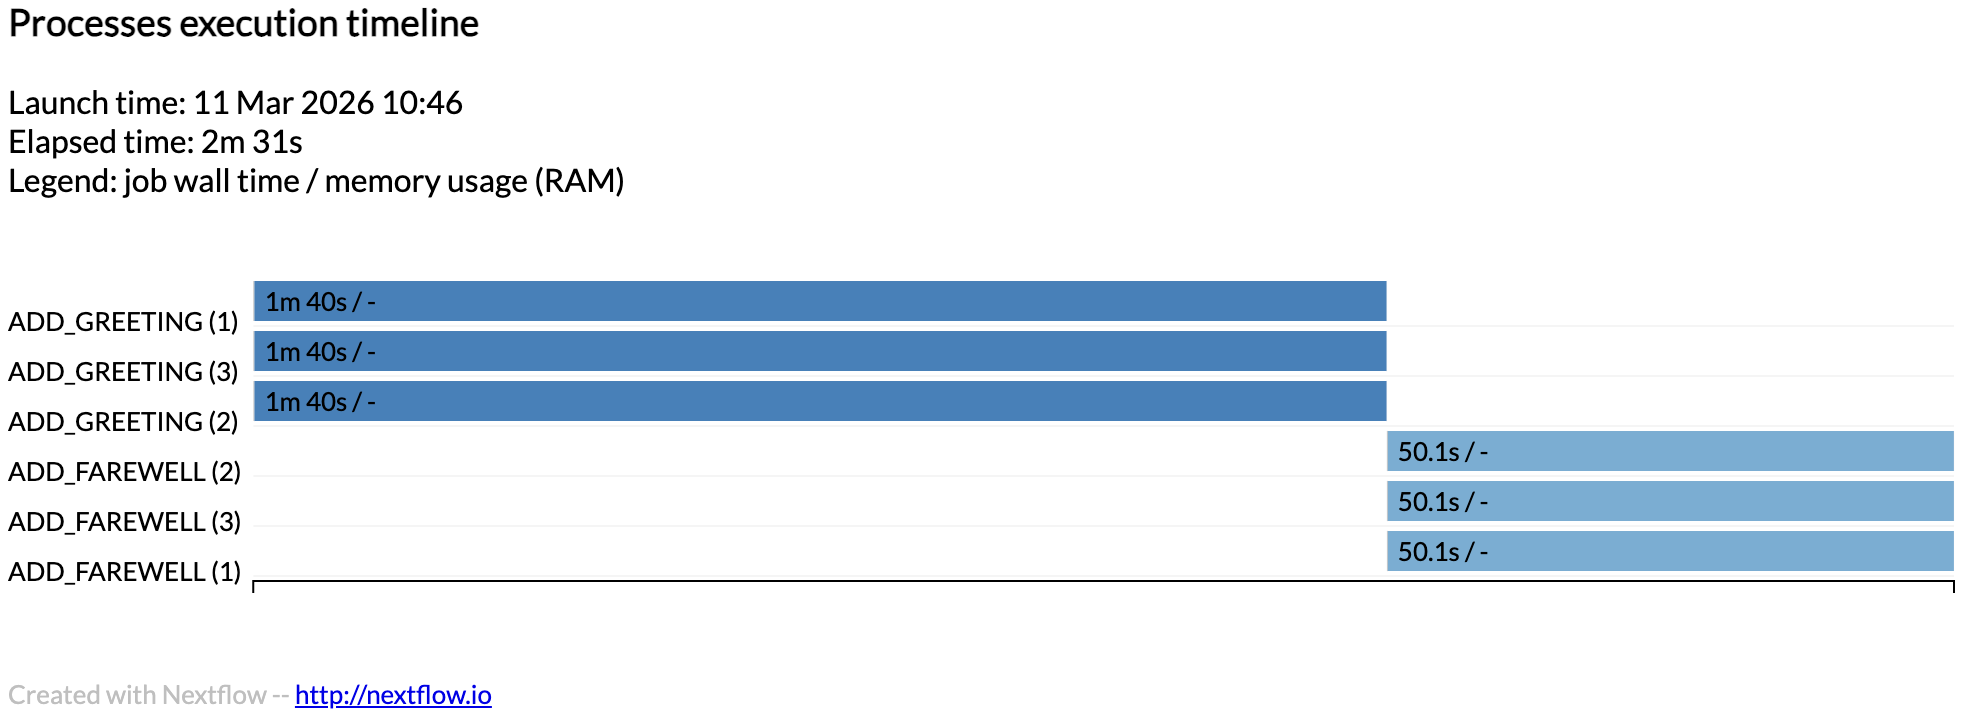
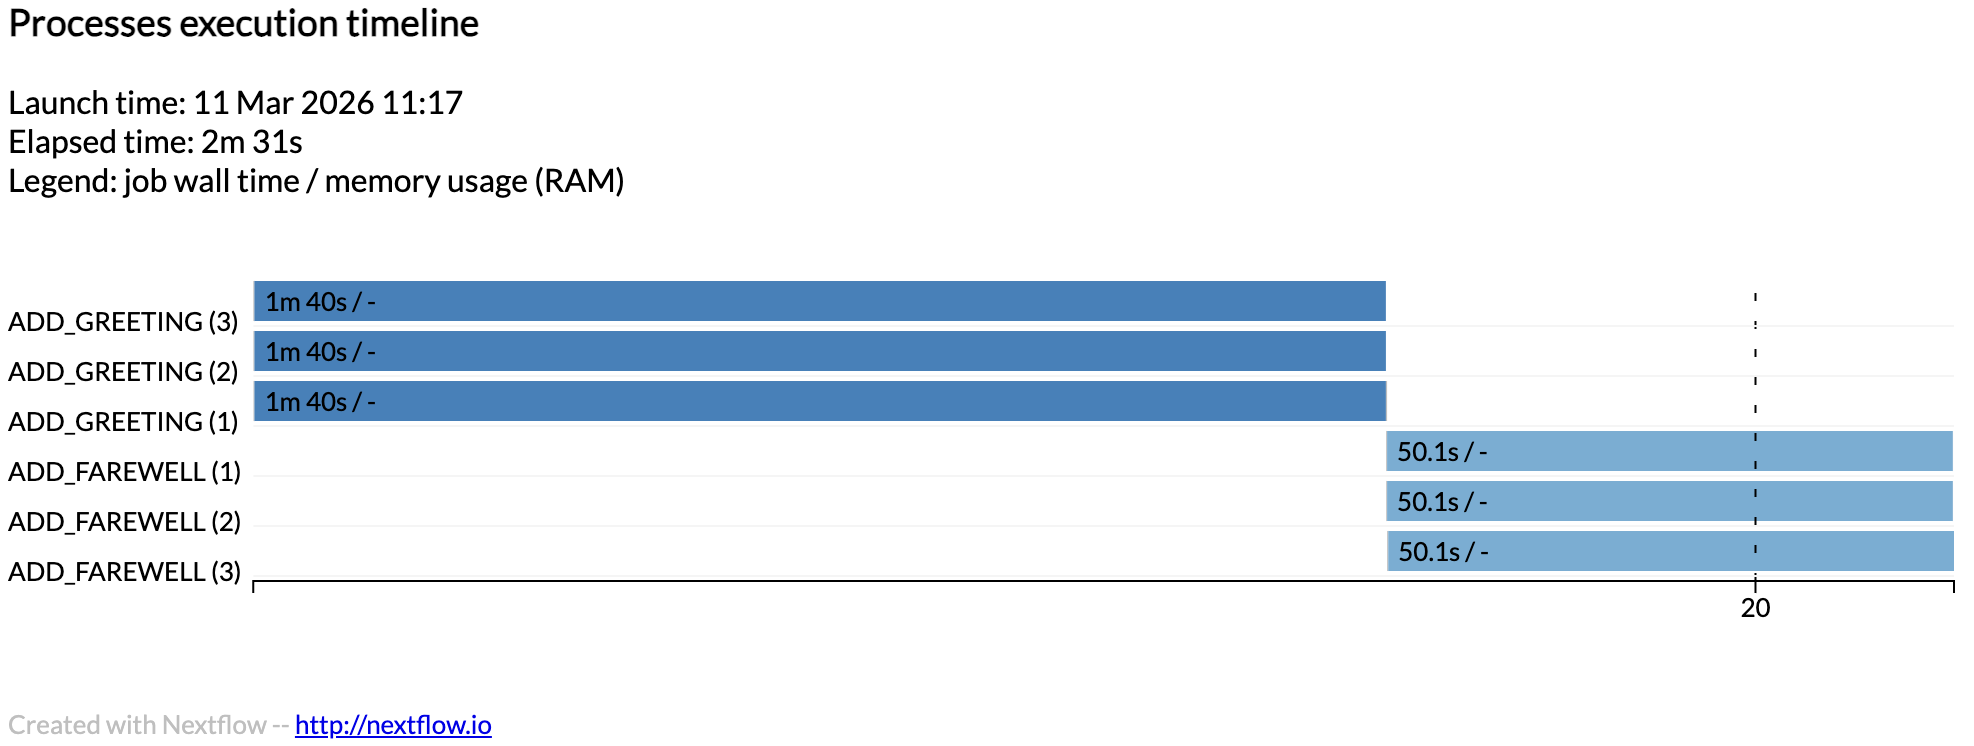
Update new timeline and reflow command

diff --git a/timeline.html b/timeline.html
@@ -207,15 +207,15 @@ $(function() {
   // Nextflow report data
   window.data = {
     "elapsed": "2m 31s",
-    "beginningMillis": 1773243992009,
-    "endingMillis": 1773244142816,
+    "beginningMillis": 1773245866883,
+    "endingMillis": 1773246017886,
     "processes": [
-        {"label": "ADD_GREETING (1)", "cached": false, "index": 0, "times": [{"starting_time": 1773243992366, "ending_time": 1773243992463}, {"starting_time": 1773243992463, "ending_time": 1773244092463, "label": "1m 40s \/ -"}, {"starting_time": 1773244092463, "ending_time": 1773244092470}]},
-        {"label": "ADD_GREETING (3)", "cached": false, "index": 0, "times": [{"starting_time": 1773243992372, "ending_time": 1773243992464}, {"starting_time": 1773243992464, "ending_time": 1773244092464, "label": "1m 40s \/ -"}, {"starting_time": 1773244092464, "ending_time": 1773244092474}]},
-        {"label": "ADD_GREETING (2)", "cached": false, "index": 0, "times": [{"starting_time": 1773243992375, "ending_time": 1773243992465}, {"starting_time": 1773243992465, "ending_time": 1773244092465, "label": "1m 40s \/ -"}, {"starting_time": 1773244092465, "ending_time": 1773244092475}]},
-        {"label": "ADD_FAREWELL (2)", "cached": false, "index": 1, "times": [{"starting_time": 1773244092491, "ending_time": 1773244092575}, {"starting_time": 1773244092575, "ending_time": 1773244142575, "label": "50.1s \/ -"}, {"starting_time": 1773244142575, "ending_time": 1773244142583}]},
-        {"label": "ADD_FAREWELL (3)", "cached": false, "index": 1, "times": [{"starting_time": 1773244092495, "ending_time": 1773244092576}, {"starting_time": 1773244092576, "ending_time": 1773244142576, "label": "50.1s \/ -"}, {"starting_time": 1773244142576, "ending_time": 1773244142581}]},
-        {"label": "ADD_FAREWELL (1)", "cached": false, "index": 1, "times": [{"starting_time": 1773244092499, "ending_time": 1773244092576}, {"starting_time": 1773244092576, "ending_time": 1773244142576, "label": "50.1s \/ -"}, {"starting_time": 1773244142576, "ending_time": 1773244142580}]}
+        {"label": "ADD_GREETING (3)", "cached": false, "index": 0, "times": [{"starting_time": 1773245867241, "ending_time": 1773245867335}, {"starting_time": 1773245867335, "ending_time": 1773245967335, "label": "1m 40s \/ -"}, {"starting_time": 1773245967335, "ending_time": 1773245967336}]},
+        {"label": "ADD_GREETING (2)", "cached": false, "index": 0, "times": [{"starting_time": 1773245867248, "ending_time": 1773245867338}, {"starting_time": 1773245867338, "ending_time": 1773245967338, "label": "1m 40s \/ -"}, {"starting_time": 1773245967338, "ending_time": 1773245967341}]},
+        {"label": "ADD_GREETING (1)", "cached": false, "index": 0, "times": [{"starting_time": 1773245867254, "ending_time": 1773245867338}, {"starting_time": 1773245867338, "ending_time": 1773245967338, "label": "1m 40s \/ -"}, {"starting_time": 1773245967338, "ending_time": 1773245967442}]},
+        {"label": "ADD_FAREWELL (1)", "cached": false, "index": 1, "times": [{"starting_time": 1773245967357, "ending_time": 1773245967442}, {"starting_time": 1773245967442, "ending_time": 1773246017442, "label": "50.1s \/ -"}, {"starting_time": 1773246017442, "ending_time": 1773246017449}]},
+        {"label": "ADD_FAREWELL (2)", "cached": false, "index": 1, "times": [{"starting_time": 1773245967361, "ending_time": 1773245967443}, {"starting_time": 1773245967443, "ending_time": 1773246017443, "label": "50.1s \/ -"}, {"starting_time": 1773246017443, "ending_time": 1773246017448}]},
+        {"label": "ADD_FAREWELL (3)", "cached": false, "index": 1, "times": [{"starting_time": 1773245967448, "ending_time": 1773245967545}, {"starting_time": 1773245967545, "ending_time": 1773246017545, "label": "50.1s \/ -"}]}
     ]
 }
 ;

diff --git a/README.md b/README.md
@@ -6,7 +6,9 @@ Reuse St Jude executor config: https://nf-co.re/configs/stjude/
 **Local Run**
 
 ```bash
-nextflow run main.nf --infiles "data/*.txt" -with-timeline timeline.html
+nextflow run main.nf \
+  --infiles "data/*.txt" \
+  -with-timeline timeline.html
 ```
 
 Which prints out:
@@ -37,5 +39,8 @@ Succeeded   : 6
 **LSF HPC Run**
 
 ```bash
-nextflow run main.nf --infiles "data/*.txt" -with-timeline timeline.html -profile stjude
+nextflow run main.nf \
+  --infiles "data/*.txt" \
+  -with-timeline timeline_hpc.html \
+  -profile stjude
 ```
